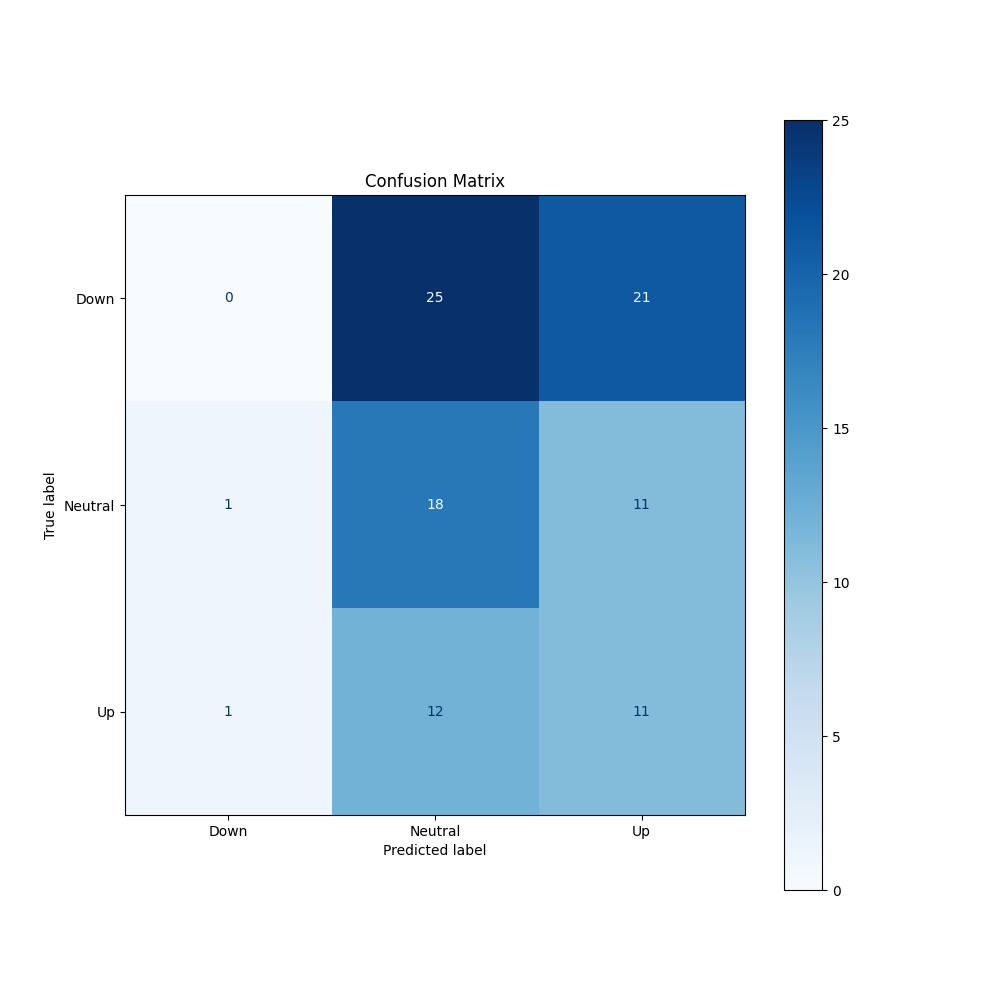
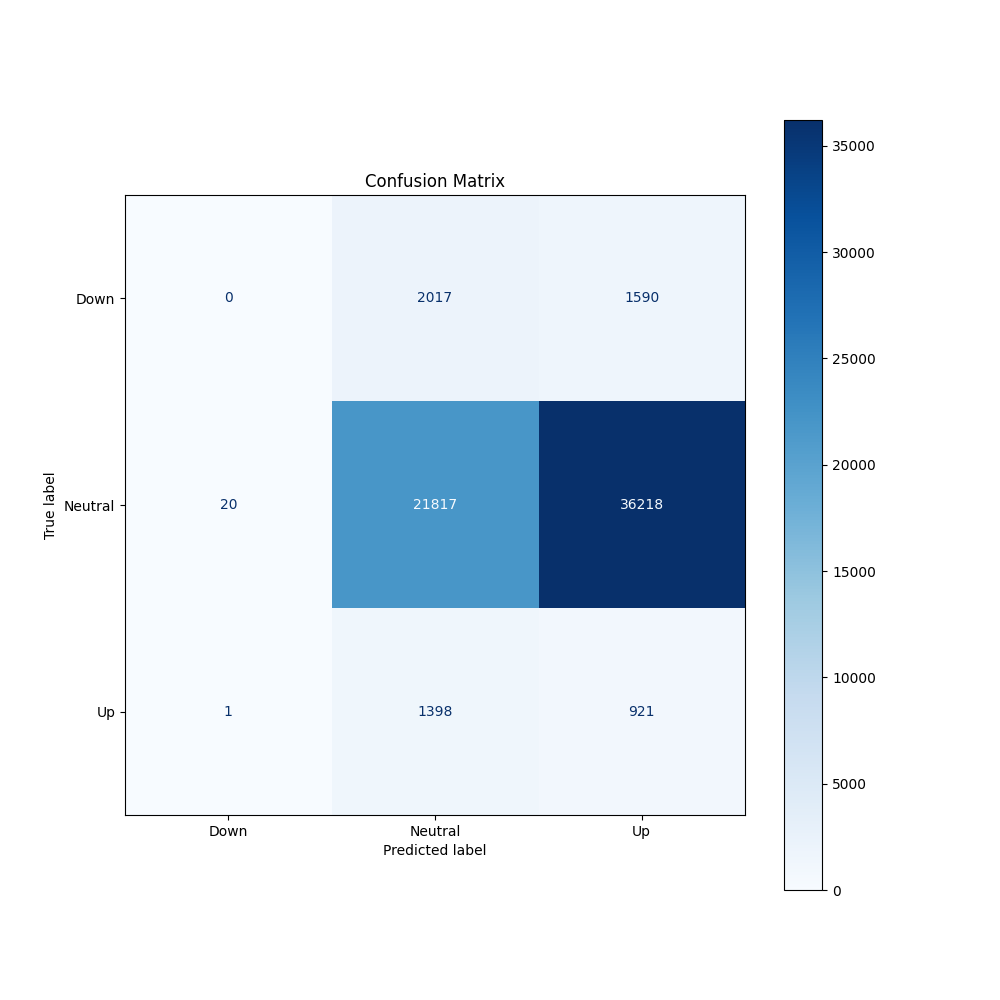
server update

diff --git a/src/experiment.py b/src/experiment.py
@@ -42,8 +42,8 @@ class DirectionSplitTBL(Experiment):
     def __init__(
         self,
         num_samples=60000,
-        price_df_addr="raw/daily-2020.csv",
-        text_df_addr="raw/combined_tweets_2020_labeled.csv",
+        price_df_addr="raw/bitcoin_2015-01-01_2022-01-01.csv",
+        text_df_addr="raw/combined_2015_to_2021.csv",
         logger=None
     ):
         super().__init__(
@@ -80,7 +80,7 @@ class DirectionSplitTBL(Experiment):
 
         # loading and labeling the data
         self.logger.info(f"loading and labeling the data...")
-        text_df = self.load_textaul_data()
+        text_df = self.load_textual_data()
         price_df = self.load_price_data()
 
         self.labeler.fit(price_df)
@@ -96,16 +96,17 @@ class DirectionSplitTBL(Experiment):
         labeled_texts = HFDataset.from_pandas(labeled_texts[["text", "label"]])
         # preprocess the text column
         self.logger.info(f"preprocessing the dataset...")
-        labeled_texts = HFDataset.preprocess(labeled_texts)
+        #labeled_texts = HFDataset.preprocess(labeled_texts)
 
         self.logger.info(f"slicing and spliting the dataset...")
         # Spliting the dataset for evaluation
 
         self.logger.info(f"changing the label type of the dataset...")
         labeled_texts = labeled_texts.shuffle()
-        labeled_texts = labeled_texts.select(range(self.num_samples))
+        #labeled_texts = labeled_texts.select(range(self.num_samples))
         labeled_texts = labeled_texts.class_encode_column('label')
         labeled_texts = labeled_texts.train_test_split(params["TRAIN_TEST_SPLIT"], seed=42)
+        self.logger.info(labeled_texts)
 
         # tokenizing the dataset text to be used in train and test loops
         tokenizer = AutoTokenizer.from_pretrained("ElKulako/cryptobert")
@@ -113,6 +114,7 @@ class DirectionSplitTBL(Experiment):
             tokenizer, labeled_texts
         )
 
+        device = torch.device('cuda') if torch.cuda.is_available() else torch.device('cpu')
         neptune_run = self.init_neptune_run("#1.1", description="evaluating the base model without fintuning", params=params)
         trainer = self.model.get_trainer(labeled_texts["test"], neptune_run=neptune_run)
         self.logger.info(f"evaluating the base model without fintuning...")
@@ -134,7 +136,6 @@ class DirectionSplitTBL(Experiment):
 
         self.logger.info(f"training the model...")
         neptune_run = self.init_neptune_run("#1.2", description="finetuning the base model on impact labels", params=params)
-        device = torch.device('cuda') if torch.cuda.is_available() else torch.device('cpu')
         train_metrics = self.model.train(dataloader=train_dataloader, device=device, learning_rate=params["LEARNING_RATE"], epochs=params["EPOCHS"], neptune_run=neptune_run)
         self.results["train"] = train_metrics
         neptune_run.stop()
@@ -165,7 +166,7 @@ class DirectionSplitTBL(Experiment):
             usecols=["timestamp", "close", "open", "high", "low", "volume"],
         )
         price_df.set_index("timestamp", inplace=True)
-        price_df.index = pd.to_datetime(price_df.index, unit="s")
+        price_df.index = pd.to_datetime(price_df.index)
 
         return price_df
 

diff --git a/src/model.py b/src/model.py
@@ -295,6 +295,6 @@ class CryptoBERT(Model):
             train_dataset=train_dataset,
             eval_dataset=eval_dataset,        # test dataset
             compute_metrics=compute_metrics_func,   # the compute_metrics function
-        )
+            )
 
         return trainer
